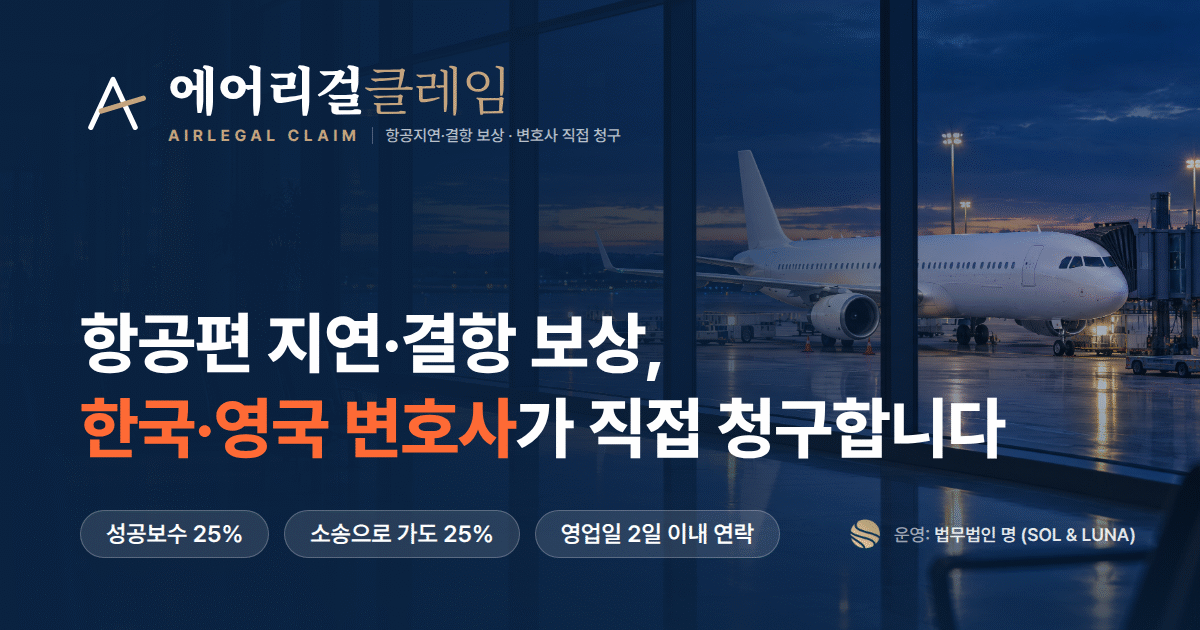
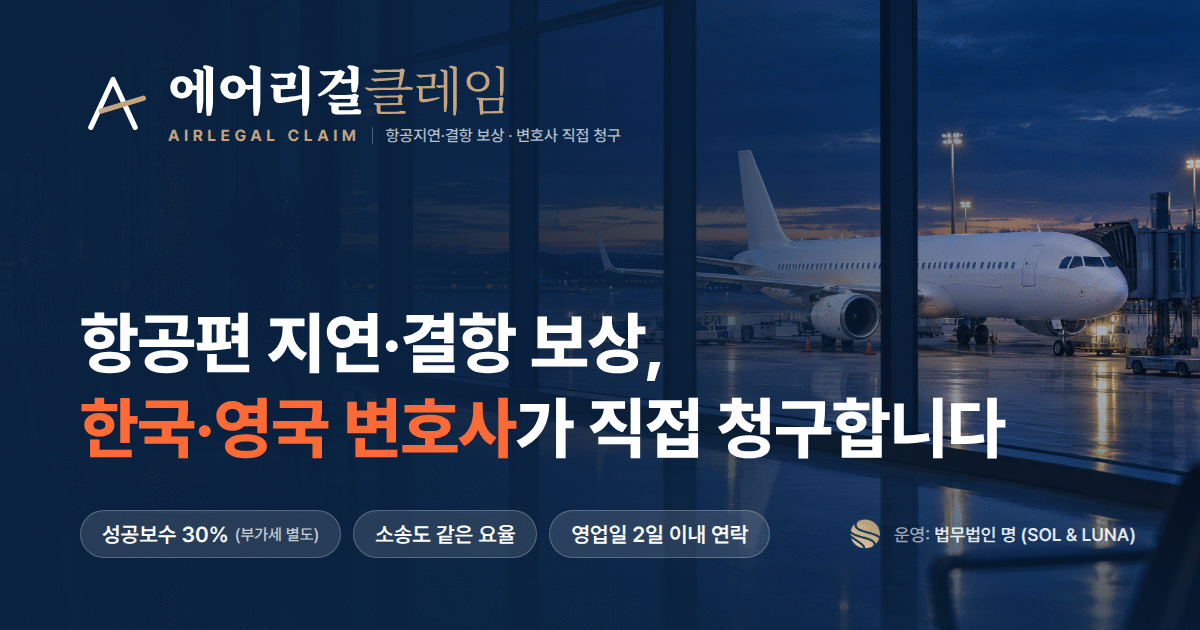
fee: 성공보수를 모든 사건 30%(부가세 별도)로 변경, 소송도 같은 요율
- 25%(부가세 포함) → 30%(부가세 별도): 절차·비용, 자주 묻는 질문 01, 홈 첫 화면·접수 안내 상자, 사건 접수, 운영 법인 소개, 가이드 맺음 상자, 공동소송 가이드
- 홈 첫 화면 수치는 '30%' 옆에 '부가세 별도'를 함께 표시, '(부가세 별도)'가 줄바꿈으로 갈리지 않게 붙여 씀
- OG 이미지 문구: 성공보수 30%(부가세 별도) · 소송도 같은 요율
- 가이드 작성 정책(topics.md·guide-structure.md) 요율 갱신

Claude-Session: https://claude.ai/code/session_01Sn84YuZauVKGZAHYxhELwG

Changed region(s): [[0.0925, 0.7841, 0.6475, 0.9048], [0.8633, 0.3317, 0.925, 0.3619], [0.8942, 0.4524, 0.925, 0.4825]]

diff --git a/src/app/process/page.tsx b/src/app/process/page.tsx
@@ -14,7 +14,7 @@ import LawsuitList from '@/components/process/LawsuitList'
 
 export const metadata: Metadata = {
   title: '진행 절차와 비용',
-  description: '사건 접수부터 보상 가능 여부 판단, 항공사 청구, 공동소송, 보상금 수령까지의 단계와 비용(성공보수 25%, 공동소송 진행비 소송마다 1인 1만 원), 공동소송 일정을 안내합니다.',
+  description: '사건 접수부터 보상 가능 여부 판단, 항공사 청구, 공동소송, 보상금 수령까지의 단계와 비용(성공보수 30%·부가세 별도, 공동소송 진행비 소송마다 1인 1만 원), 공동소송 일정을 안내합니다.',
 }
 
 const ICONS = [FileEdit, Search, Send, Users, Banknote]
@@ -64,7 +64,7 @@ const details: Detail[] = [
       { when: '항공사가 지급하면', text: '보상금 수령 단계로 넘어갑니다.', href: '#step-5' },
       { when: '항공사가 거절하면', text: '같은 항공사 사건과 함께 공동소송을 준비합니다. 기한 안에 답하지 않아도 거절로 봅니다.', href: '#step-4' },
     ],
-    fee: <>보상금을 받은 경우에만 성공보수 <strong className="text-navy">25%</strong> (부가세 포함)</>,
+    fee: <>보상금을 받은 경우에만 성공보수 <strong className="text-navy">30%</strong> (부가세&nbsp;별도)</>,
   },
   {
     timing: '8월 말·2월 말 접수 마감 → 11월·5월 중 소장 접수',
@@ -77,7 +77,7 @@ const details: Detail[] = [
       '동의하실 때 소송 진행비(소송마다 1인 1만 원)를 내 주세요.',
       '법원에 나오실 일은 없습니다.',
     ],
-    fee: <>참여 동의 시 소송마다 진행비 1인 <strong className="text-navy">1만 원</strong> + 판결금·합의금을 받은 경우 성공보수 <strong className="text-navy">25%</strong> (부가세 포함)</>,
+    fee: <>참여 동의 시 소송마다 진행비 1인 <strong className="text-navy">1만 원</strong> + 판결금·합의금을 받은 경우 성공보수 <strong className="text-navy">30%</strong> (부가세&nbsp;별도)</>,
     more: { label: '공동소송 일정과 기준 자세히 보기', href: '#group' },
   },
   {
@@ -100,7 +100,7 @@ const routes = [
 const reasons = [
   { icon: Users, title: '같은 항공사끼리 함께', desc: '항공편이 달라도 같은 기간에 운항한 같은 항공사 사건이면 하나의 소송으로 모아 진행합니다.' },
   { icon: Scale, title: '변호사가 모두 대리', desc: '한국 법인이 원고 모두를 대리해 소장 작성부터 재판까지 맡습니다. 고객님이 법원에 나오실 일은 없습니다.' },
-  { icon: Wallet, title: '부담은 소송마다 1만 원', desc: '참여하시는 소송마다 진행비 1인 1만\u00a0원만 내시면 되고, 성공보수는 소송으로 가도 25% 그대로입니다.' },
+  { icon: Wallet, title: '부담은 소송마다 1만 원', desc: '참여하시는 소송마다 진행비 1인 1만\u00a0원만 내시면 되고, 성공보수는 소송으로 가도 30%(부가세\u00a0별도) 그대로입니다.' },
 ]
 
 // 공동소송 차수 일정 — 자주 묻는 질문(content/faq/09-litigation-timing.md), 접수 완료 화면의 차수 계산(src/lib/batch.ts)과 같은 내용을 유지해 주세요
@@ -140,8 +140,8 @@ const sections = [
 // 비용 안내 — 자주 묻는 질문(content/faq/01-cost.md)과 같은 내용을 유지해 주세요
 const fees = [
   { step: '접수·보상 가능 여부 판단', fee: <>비용 없음</> },
-  { step: '항공사 청구', fee: <>보상금을 받은 경우에만 성공보수 <strong className="text-navy">25%</strong> (부가세 포함)</> },
-  { step: '공동소송', fee: <>참여 동의 시 소송마다 진행비 1인 <strong className="text-navy">1만 원</strong> + 판결금·합의금을 받은 경우 성공보수 <strong className="text-navy">25%</strong> (부가세 포함)</> },
+  { step: '항공사 청구', fee: <>보상금을 받은 경우에만 성공보수 <strong className="text-navy">30%</strong> (부가세&nbsp;별도)</> },
+  { step: '공동소송', fee: <>참여 동의 시 소송마다 진행비 1인 <strong className="text-navy">1만 원</strong> + 판결금·합의금을 받은 경우 성공보수 <strong className="text-navy">30%</strong> (부가세&nbsp;별도)</> },
 ]
 
 const feeNotes = [

diff --git a/src/components/sections/home/Hero.tsx b/src/components/sections/home/Hero.tsx
@@ -47,12 +47,15 @@ export default function Hero() {
             <div className="mt-6 sm:mt-10 flex gap-6 sm:gap-10">
               {[
                 { label: '한국·영국 변호사', value: '직접 청구' },
-                { label: '성공보수 · 소송도 같은 요율', value: '25%' },
+                { label: '성공보수 · 소송도 같은 요율', value: '30%', note: '부가세 별도' },
                 { label: '영업일 기준 연락', value: '2일 이내' },
               ].map((item) => (
                 <div key={item.label}>
-                  <div className="text-white font-bold text-lg">{item.value}</div>
-                  <div className="text-white/75 text-xs mt-1">{item.label}</div>
+                  <div className="text-white font-bold text-lg">
+                    {item.value}
+                    {item.note && <span className="ml-1 text-[11px] font-medium text-white/75">{item.note}</span>}
+                  </div>
+                  <div className="text-white/75 text-xs mt-1 break-keep">{item.label}</div>
                 </div>
               ))}
             </div>

diff --git a/src/app/about/page.tsx b/src/app/about/page.tsx
@@ -116,7 +116,7 @@ export default function AboutPage() {
                 협업 체계로 어떤 노선의 피해도 처리합니다.
               </p>
               <div className="space-y-2.5">
-                {['성공보수 25% — 보상받은 경우에만, 소송으로 가도 같은 요율', '보상 가능 여부 판단 — 영업일 기준 2일 이내 연락', '국내외 모든 항공사 처리 가능'].map((item) => (
+                {['성공보수 30%(부가세\u00a0별도) — 보상받은 경우에만, 소송으로 가도 같은 요율', '보상 가능 여부 판단 — 영업일 기준 2일 이내 연락', '국내외 모든 항공사 처리 가능'].map((item) => (
                   <div key={item} className="flex items-center gap-2.5 text-sm text-gray-700">
                     <CheckCircle className="w-4 h-4 text-navy/60 shrink-0" />{item}
                   </div>

diff --git a/src/components/content/ArticleCTA.tsx b/src/components/content/ArticleCTA.tsx
@@ -11,7 +11,7 @@ export default function ArticleCTA({ cta }: { cta?: { situation: string; offer: 
         {cta ? `${cta.situation}, ${cta.offer}부터 확인해 드립니다.` : '항공편 정보만 입력하시면 보상 가능 여부부터 확인해 드립니다.'}
       </p>
       <p className="text-white/60 text-sm mt-2 mb-6 break-keep">
-        접수 후 영업일 기준 2일 이내에 연락드리며, 보상금을 받은 경우에만 성공보수 25%(부가세 포함)가 발생합니다.
+        접수 후 영업일 기준 2일 이내에 연락드리며, 보상금을 받은 경우에만 성공보수 30%(부가세&nbsp;별도)가 발생합니다.
       </p>
       <div className="flex flex-wrap gap-3 justify-center">
         <Link href="/intake" className="btn-primary">

diff --git a/src/app/intake/page.tsx b/src/app/intake/page.tsx
@@ -38,7 +38,7 @@ export default function IntakePage() {
                   {[
                     { icon: Shield, text: '항공사 청구 단계 비용 없음' },
                     { icon: Clock, text: '영업일 기준 2일 이내 연락' },
-                    { icon: Phone, text: '보상받은 경우에만 성공보수 25% (부가세 포함)' },
+                    { icon: Phone, text: '보상받은 경우에만 성공보수 30% (부가세\u00a0별도)' },
                   ].map(({ icon: Icon, text }) => (
                     <div key={text} className="flex items-start gap-3 text-sm text-gray-600">
                       <Icon className="w-4 h-4 text-navy/60 mt-0.5 shrink-0" />

diff --git a/src/components/sections/home/IntakeCTA.tsx b/src/components/sections/home/IntakeCTA.tsx
@@ -28,7 +28,7 @@ export default function IntakeCTA() {
           </div>
 
           <p className="text-white/60 text-sm mt-6">
-            ※ 항공사 청구 단계는 비용이 없고, 보상금을 받은 경우에만 성공보수 25%(부가세 포함)가 발생합니다.{' '}
+            ※ 항공사 청구 단계는 비용이 없고, 보상금을 받은 경우에만 성공보수 30%(부가세&nbsp;별도)가 발생합니다.{' '}
             <Link href="/process#cost" className="underline underline-offset-2 hover:text-white">비용 안내</Link>
           </p>
         </div>

diff --git a/content/blog/group-lawsuit-after-rejection.md b/content/blog/group-lawsuit-after-rejection.md
@@ -15,7 +15,7 @@ ctaOffer: "공동소송으로 함께 청구할 수 있는지"
 - 항공사가 보상을 거절하거나 **1개월 답변 기한** 안에 답하지 않으면, 같은 항공사 사건을 모아 **공동소송**으로 청구합니다.
 - 사건은 **운항일 기준 6개월 단위 차수**로 묶습니다. 1~6월 운항분은 8월 말, 7~12월 운항분은 다음 해 2월 말에 접수를 마감합니다.
 - 진행 여부를 안내받은 날부터 **1개월 안에 동의**하신 분만 원고가 되고, 소장은 11월·5월 중에 접수합니다.
-- 비용은 동의할 때 내는 **소송 진행비**(소송마다 1인 1만 원)와, 판결금·합의금을 받은 경우의 **성공보수 25%**(부가세 포함)입니다. 법원에 나오실 일은 없습니다.
+- 비용은 동의할 때 내는 **소송 진행비**(소송마다 1인 1만 원)와, 판결금·합의금을 받은 경우의 **성공보수 30%**(부가세 별도)입니다. 법원에 나오실 일은 없습니다.
 - 소송으로 받을 금액은 미리 말씀드리기 어렵고, EU 규정 금액보다 적을 수 있습니다.
 :::
 
@@ -66,7 +66,7 @@ ctaOffer: "공동소송으로 함께 청구할 수 있는지"
 | 항목 | 내용 |
 | --- | --- |
 | 소송 진행비 | 동의할 때 소송마다 1인 1만 원. 인지대·송달료 등에 쓰이는 정액이며, 법인이 소송을 제기하지 않게 되면 돌려드립니다 |
-| 성공보수 | 판결금·합의금을 받은 경우에만 25%(부가세 포함). 항공사 청구 단계와 같은 요율입니다 |
+| 성공보수 | 판결금·합의금을 받은 경우에만 30%(부가세 별도). 항공사 청구 단계와 같은 요율입니다 |
 | 계산 기준 | 항공사로부터 실제로 받은 금액 |
 
 고객이 하실 일은 동의 여부를 알려 주시는 것과 진행비를 내시는 것, 그리고 필요한 자료를 요청드리면 보내 주시는 것입니다. 재판에서는 항공권·탑승권, 지연·결항을 알린 항공사 문자나 이메일, 항공사의 거절 답변이 증거가 되므로 소송이 끝날 때까지 보관해 주세요. 챙겨 둘 자료는 [공항에서 챙길 증거 5가지](/guide/airport-evidence-checklist)에, 탑승권이 없을 때 대신 쓸 자료는 [탑승권이 없을 때의 청구](/guide/claim-without-boarding-pass)에 정리해 두었습니다. 소송 중에 항공사가 직접 연락하거나 합의·바우처를 제안하면 받아들이기 전에 먼저 알려 주세요. 법원에 나오실 일은 없습니다.

diff --git a/.claude/skills/air-guide-writer/references/topics.md b/.claude/skills/air-guide-writer/references/topics.md
@@ -97,8 +97,9 @@
 
 **비용**
 - 접수·보상 가능 여부 판단: 비용 없음
-- 항공사 청구: 보상금을 받은 경우에만 성공보수 25%(부가세 포함)
-- 공동소송: 참여에 동의할 때 소송마다 진행비 1인 1만 원 + 판결금·합의금을 받은 경우 성공보수 25%(부가세 포함). 소송으로 가도 요율은 같다
+- 항공사 청구: 보상금을 받은 경우에만 성공보수 30%(부가세 별도)
+- 공동소송: 참여에 동의할 때 소송마다 진행비 1인 1만 원 + 판결금·합의금을 받은 경우 성공보수 30%(부가세 별도). 소송으로 가도 요율은 같다
+- 성공보수는 모든 사건(노선 무관) 30%, 부가세 별도로 표기한다 (2026년 10월 사용자 확정, 이전 '25% 부가세 포함'에서 변경)
 - 소송 진행비는 소송(항공사)마다 낸다. 항공사가 달라 소송이 둘 이상이면 소송별로 1인 1만 원 (2026년 10월 사용자 확정)
 - 성공보수는 항공사로부터 실제로 받은 금액을 기준으로 계산
 - 소송 진행비는 인지대·송달료 등에 쓰이는 정액이며, 법인이 소송을 제기하지 않게 되면 돌려준다

diff --git a/.claude/skills/air-guide-writer/references/guide-structure.md b/.claude/skills/air-guide-writer/references/guide-structure.md
@@ -60,7 +60,7 @@
 - 글 머리: 「항공 보상 가이드 › 묶음」, 큰 제목(= seoTitle), 작성자·검토일, 대표 사진(cover)
 - **법률 정보 안내** — 묶음별 고정 문구 (보상·청구 묶음에는 "EU261·UK261 금액은 항공사 청구 기준이며, 한국 법원은 한국법에 따라 판단할 수 있어 인정 금액이 다르거나 적을 수 있다"는 문장이 들어 있다)
 - **함께 보면 좋은 글** — frontmatter `related`에 적은 글이 있을 때만 나온다. 억지로 채우지 않는다
-- **맺음 상자(접수 안내)** — "내 항공편도 보상받을 수 있을까요?" + `{ctaSituation}, {ctaOffer}부터 확인해 드립니다.` + 영업일 2일·성공보수 25% 안내 + 사건 접수 버튼
+- **맺음 상자(접수 안내)** — "내 항공편도 보상받을 수 있을까요?" + `{ctaSituation}, {ctaOffer}부터 확인해 드립니다.` + 영업일 2일·성공보수 30%(부가세 별도) 안내 + 사건 접수 버튼
 - **작성·검토 표시**
 - 검색엔진용 구조화 데이터 (Article, `:::faq`가 있으면 FAQPage)
 

diff --git a/content/faq/01-cost.md b/content/faq/01-cost.md
@@ -5,7 +5,7 @@ category: cost
 ---
 
 - **접수·보상 가능 여부 판단**: 비용 없음
-- **항공사 청구**: 보상금을 받은 경우에만 성공보수 25%(부가세 포함)
-- **공동소송**: 참여에 동의할 때 소송마다 진행비 1인 1만 원, 판결금·합의금을 받은 경우 성공보수 25%(부가세 포함)
+- **항공사 청구**: 보상금을 받은 경우에만 성공보수 30%(부가세 별도)
+- **공동소송**: 참여에 동의할 때 소송마다 진행비 1인 1만 원, 판결금·합의금을 받은 경우 성공보수 30%(부가세 별도)
 
 성공보수는 항공사로부터 실제로 받은 금액을 기준으로 계산합니다. 소송 진행비는 인지대·송달료 등에 쓰이는 정액이며, 항공사가 달라 소송이 둘 이상이면 소송별로 냅니다. 법인이 소송을 제기하지 않게 되면 돌려드립니다.
